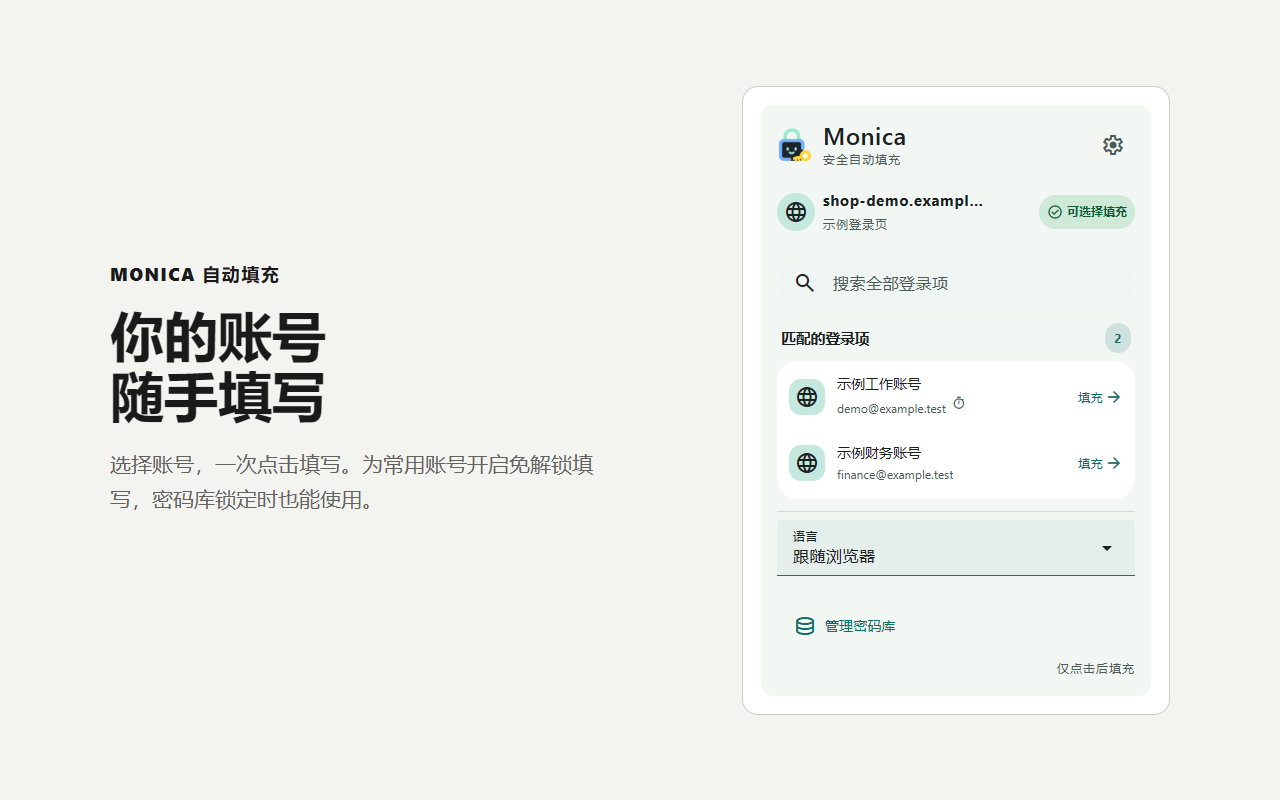
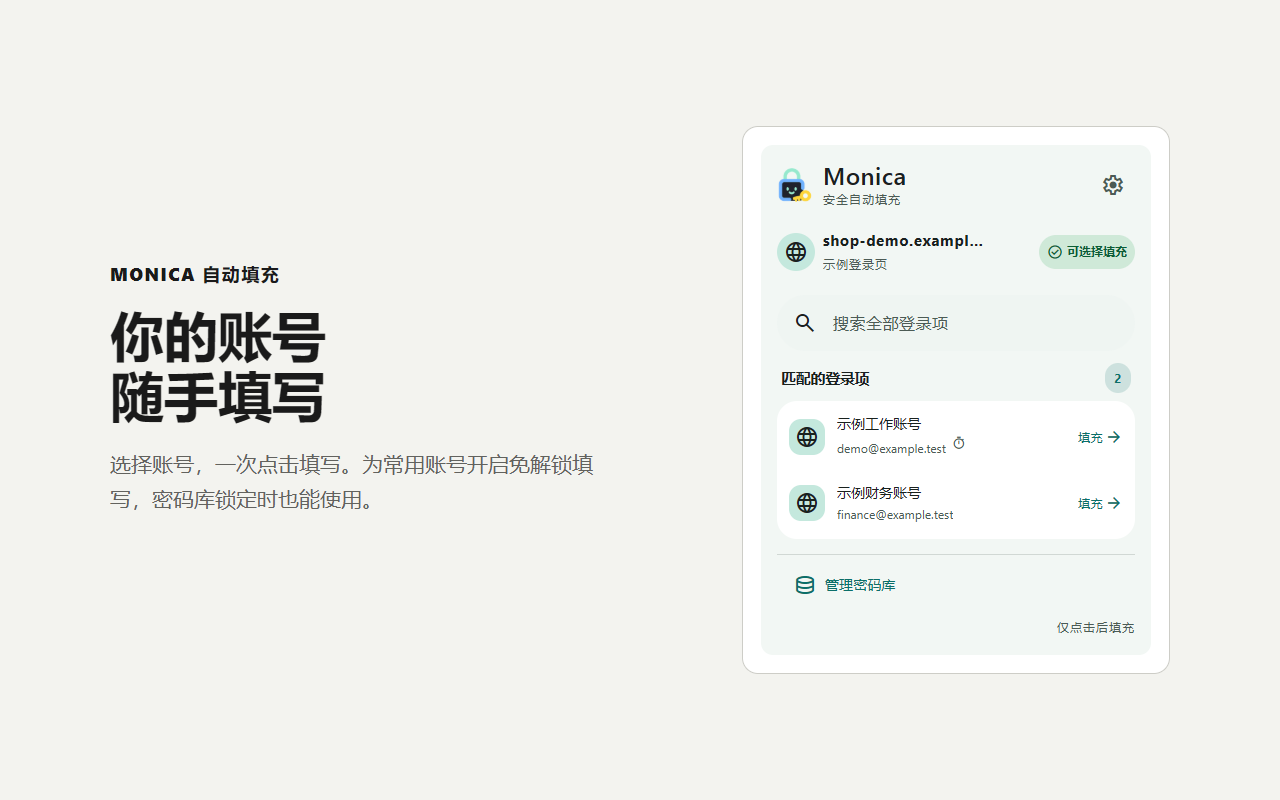
fix: keep interface language selection in settings

diff --git a/tests/e2e/multilingual.spec.ts b/tests/e2e/multilingual.spec.ts
@@ -29,7 +29,7 @@ async function usable(root: Locator) {
   expect(issues).toEqual([]);
 }
 
-test("language names stay readable on narrow authentication screens", async ({}, testInfo) => {
+test("language names stay readable in settings on narrow screens", async ({}, testInfo) => {
   const context = await chromium.launchPersistentContext(testInfo.outputPath("language-picker-profile"), {
     channel: "chromium", headless: true, locale: "zh-CN", reducedMotion: "reduce",
     args: [`--disable-extensions-except=${extension}`, `--load-extension=${extension}`]
@@ -39,7 +39,12 @@ test("language names stay readable on narrow authentication screens", async ({},
     const manager = await context.newPage();
     await context.setOffline(true);
     await manager.goto(`chrome-extension://${new URL(worker.url()).host}/index.html`);
-    const picker = manager.locator(".auth-preferences .language-picker").getByRole("combobox");
+    await expect(manager.getByRole("heading", { name: "创建加密密码库", exact: true })).toBeVisible();
+    await expect(manager.locator(".language-picker")).toHaveCount(0);
+    expect(await manager.evaluate(password => chrome.runtime.sendMessage({ type: "VAULT_SETUP", masterPassword: password }), password)).toMatchObject({ ok: true });
+    await manager.reload();
+    await manager.getByRole("navigation").getByRole("button", { name: "设置与备份", exact: true }).click();
+    const picker = manager.locator(".settings-page .language-picker").getByRole("combobox");
     for (const [width, height, scale] of [[390, 640, 100], [320, 480, 200]]) {
       await manager.setViewportSize({ width, height });
       await manager.evaluate((scale) => { document.documentElement.style.fontSize = `${scale}%`; }, scale);
@@ -88,7 +93,7 @@ for (const language of extraLanguages) {
       await manager.goto(`chrome-extension://${id}/index.html`);
       await expect(manager.locator("html")).toHaveAttribute("lang", language.value);
       await expect(manager.getByRole("heading", { name: catalog["创建加密密码库"], exact: true })).toBeVisible();
-      await expect(manager.getByLabel(catalog["界面语言"])).toHaveJSProperty("value", "system");
+      await expect(manager.locator(".language-picker")).toHaveCount(0);
       await manager.getByLabel(catalog["主密码"], { exact: true }).fill(password);
       await manager.getByLabel(catalog["确认主密码"], { exact: true }).fill(password);
       await manager.getByRole("button", { name: catalog["创建并解锁"], exact: true }).click();
@@ -137,6 +142,7 @@ for (const language of extraLanguages) {
       await site.bringToFront();
       await popup.goto(`chrome-extension://${id}/popup.html`);
       await expect(popup.locator("html")).toHaveAttribute("lang", language.value);
+      await expect(popup.locator(".language-picker")).toHaveCount(0);
       await popup.evaluate(() => { document.documentElement.style.fontSize = "200%"; });
       const marked = popup.locator(".locked-autofill-section").getByRole("button", { name: /保留原始标题/ });
       await expect(marked).toBeVisible();
@@ -150,10 +156,20 @@ for (const language of extraLanguages) {
       expect([...requestedCatalogs].every((url) => url.startsWith("chrome-extension://") && url.endsWith(`/locales/ui-${language.value}.json`))).toBe(true);
       expect(requestedCatalogs.size).toBeGreaterThan(0);
 
-      await chooseOption(popup.getByLabel(catalog["界面语言"]), "en");
+      await manager.bringToFront();
+      // Reopen the manager using the session unlocked by the independent Popup.
+      await manager.reload();
+      await manager.evaluate(() => { document.documentElement.style.fontSize = "200%"; });
+      await expect(manager.locator(".page-heading h1")).toBeVisible();
+      await manager.getByRole("button", { name: catalog["打开导航"], exact: true }).click();
+      await manager.getByRole("navigation").getByRole("button", { name: catalog["设置与备份"], exact: true }).click();
+      await expect(manager.locator(".settings-page").getByLabel(catalog["界面语言"])).toHaveJSProperty("value", "system");
+      await chooseOption(manager.locator(".settings-page").getByLabel(catalog["界面语言"]), "en");
       await expect(manager.locator("html")).toHaveAttribute("lang", "en");
-      await chooseOption(popup.getByLabel("Interface language"), "system");
+      await expect(popup.locator("html")).toHaveAttribute("lang", "en");
+      await chooseOption(manager.locator(".settings-page").getByLabel("Interface language"), "system");
       await expect(manager.locator("html")).toHaveAttribute("lang", language.value);
+      await expect(popup.locator("html")).toHaveAttribute("lang", language.value);
       const items = await manager.evaluate(() => chrome.runtime.sendMessage({ type: "VAULT_LIST_ITEMS" }));
       expect(items).toMatchObject({ ok: true, data: expect.arrayContaining([expect.objectContaining({ id: fixture.id, title: fixture.title, notes: fixture.notes, password: fixture.password }), expect.objectContaining({ title: "多语言编辑 / " + language.value, notes: "保留原文 <>& {0}" })]) });
       await manager.reload();

diff --git a/tests/e2e/localization.spec.ts b/tests/e2e/localization.spec.ts
@@ -15,6 +15,7 @@ test("browser language initializes the UI, system appearance follows changes, an
     const manager = await context.newPage();
     await manager.goto(`chrome-extension://${extensionId}/index.html`);
     await expect(manager.getByRole("heading", { name: "Create encrypted vault" })).toBeVisible();
+    await expect(manager.locator(".language-picker")).toHaveCount(0);
     await expect(manager.locator("html")).toHaveAttribute("lang", "en");
     await expect(manager.locator("html")).toHaveAttribute("data-palette", "monica");
     await expect(manager.locator("html")).toHaveAttribute("data-theme", "light");
@@ -24,6 +25,7 @@ test("browser language initializes the UI, system appearance follows changes, an
     await manager.getByLabel("Confirm master password", { exact: true }).fill("localized vault master password");
     await manager.getByRole("button", { name: "Create and unlock", exact: true }).click();
     await expect(manager.getByRole("heading", { name: "All items", exact: true })).toBeVisible();
+    await expect(manager.locator(".language-picker")).toHaveCount(0);
     const now = new Date().toISOString();
     expect(await manager.evaluate((item) => chrome.runtime.sendMessage({ type: "VAULT_UPSERT_ITEM", item }), {
       id: "localized-note", kind: "secure-note", title: "我的中文笔记", content: "不要翻译我的数据 <>&", notes: "原始备注",
@@ -36,13 +38,16 @@ test("browser language initializes the UI, system appearance follows changes, an
     const popup = await context.newPage();
     await popup.goto(`chrome-extension://${extensionId}/popup.html`);
     await expect(popup.locator("html")).toHaveAttribute("lang", "en");
+    await expect(popup.locator(".language-picker")).toHaveCount(0);
     await manager.getByRole("navigation").getByRole("button", { name: "Settings and backups", exact: true }).click();
     await expect(manager.locator(".sidebar").getByRole("combobox")).toHaveCount(0);
     await chooseOption(manager.locator(".settings-page").getByLabel("Interface language", { exact: true }), "zh-CN");
     await expect(popup.locator("html")).toHaveAttribute("lang", "zh-CN");
-    await expect(popup.getByLabel("界面语言", { exact: true })).toHaveJSProperty("value", "zh-CN");
-    await chooseOption(popup.getByLabel("界面语言", { exact: true }), "en");
+    await expect(manager.locator(".settings-page").getByLabel("界面语言", { exact: true })).toHaveJSProperty("value", "zh-CN");
+    await expect(popup.getByRole("button", { name: "管理密码库", exact: true })).toBeVisible();
+    await chooseOption(manager.locator(".settings-page").getByLabel("界面语言", { exact: true }), "en");
     await expect(manager.locator("html")).toHaveAttribute("lang", "en");
+    await expect(popup.locator("html")).toHaveAttribute("lang", "en");
     await expect(manager.locator(".settings-page").getByLabel("Interface language", { exact: true })).toHaveJSProperty("value", "en");
     await manager.getByRole("navigation").getByRole("button", { name: /^Secure Note/ }).click();
     await expect(manager.getByText("我的中文笔记", { exact: true })).toBeVisible();
@@ -51,6 +56,12 @@ test("browser language initializes the UI, system appearance follows changes, an
     await manager.reload();
     await manager.getByRole("navigation").getByRole("button", { name: "Settings and backups", exact: true }).click();
     await expect(manager.locator(".settings-page").getByLabel("Interface language", { exact: true })).toHaveJSProperty("value", "en");
+    expect(await manager.evaluate(() => chrome.runtime.sendMessage({ type: "VAULT_LOCK" }))).toMatchObject({ ok: true });
+    await expect(manager.getByRole("heading", { name: "Unlock Monica", exact: true })).toBeVisible();
+    await expect(manager.locator("html")).toHaveAttribute("lang", "en");
+    await expect(manager.locator(".language-picker")).toHaveCount(0);
+    await expect(popup.locator(".language-picker")).toHaveCount(0);
+    await manager.screenshot({ path: testInfo.outputPath("unlock-settings-language.png"), animations: "disabled" });
   } finally { await context.close(); }
 });
 

diff --git a/src/popup/PopupApp.vue b/src/popup/PopupApp.vue
@@ -6,7 +6,6 @@ import "@m3e/web/theme";
 import "@m3e/web/button";
 import "@m3e/web/icon";
 import "@m3e/web/icon-button";
-import LanguagePicker from "../components/LanguagePicker.vue";
 import ListPagination from "../components/ListPagination.vue";
 import PopupLoginRow from "./PopupLoginRow.vue";
 import WebsiteIcon from "../components/WebsiteIcon.vue";
@@ -372,7 +371,7 @@ function isSensitivePageAllowed(raw: string): boolean {
       </template>
 
       <p class="popup-status" aria-live="polite">{{ status }}</p>
-      <footer class="popup-footer"><LanguagePicker /><m3e-button variant="text" type="button" @click="openManager"><m3e-icon slot="icon" name="database"></m3e-icon>{{ tr('管理密码库') }}</m3e-button><span>{{ tr('仅点击后填充') }}</span></footer>
+      <footer class="popup-footer"><m3e-button variant="text" type="button" @click="openManager"><m3e-icon slot="icon" name="database"></m3e-icon>{{ tr('管理密码库') }}</m3e-button><span>{{ tr('仅点击后填充') }}</span></footer>
     </main>
   </m3e-theme>
 </template>

diff --git a/src/material-manager.css b/src/material-manager.css
@@ -68,7 +68,6 @@ img.brand-logo { display: block; flex: 0 0 44px; width: 44px; height: 44px; obje
 .locked-autofill-badge { display: inline-flex; align-items: center; gap: 4px; width: fit-content; max-width: 100%; padding: 4px 8px; background: var(--app-surface-high); border-radius: 8px; font-size: .6875rem; line-height: 1.5; white-space: normal; }
 #root .locked-autofill-badge m3e-icon { --m3e-icon-size: 16px; --app-icon-medium: 16px; }
 .language-picker { min-width: 0; }
-.auth-preferences { display: flex; justify-content: flex-end; padding: 16px; }
 
 @container manager-content (max-width: 48rem) { .create-type-label { display: none; } }
 @container manager-content (max-width: 24rem) {

diff --git a/src/App.vue b/src/App.vue
@@ -2314,7 +2314,6 @@ function errorCode(error: unknown): string | undefined {
 
 <template>
   <m3e-theme :color="themeColor" :scheme="activeScheme" variant="monochrome" motion="standard" strong-focus>
-    <div v-if="lifecycle !== 'unlocked'" class="auth-preferences"><LanguagePicker /></div>
     <div v-if="loading" class="loading">
       <img class="brand-logo" src="/icons/logo-256.png" width="48" height="48" alt="" /><h1>Monica</h1><p>{{ tr('正在检查加密密码库…') }}</p>
     </div>

diff --git a/src/responsive.css b/src/responsive.css
@@ -7,9 +7,8 @@
   --app-page-gutter: clamp(16px, 2.4vw, 40px);
 }
 
-:is(#root, #popup-root) .language-picker { max-width: 100%; }
-:is(#root, #popup-root) .language-error { overflow-wrap: anywhere; }
-#root .auth-preferences .language-picker { width: min(100%, 22rem); }
+#root .language-picker { max-width: 100%; }
+#root .language-error { overflow-wrap: anywhere; }
 
 #root .settings-language-card .language-picker {
   width: min(100%, 26rem);

diff --git a/docs/PRIVACY.md b/docs/PRIVACY.md
@@ -1,6 +1,6 @@
 # Monica 浏览器插件隐私政策
 
-生效日期：2026-09-10
+生效日期：2026-09-15
 
 Monica 浏览器插件是一款独立运行的密码、身份、支付信息和 Passkey 管理工具。插件不依赖 Monica Server WebUI，也不由 Monica-Pass 运营同步服务器。除用户主动配置的 WebDAV 或 Bitwarden 服务外，插件不会把密码库发送给 Monica-Pass 或其他由本项目控制的服务器。
 
@@ -35,7 +35,13 @@ Monica 浏览器插件是一款独立运行的密码、身份、支付信息和 
 
 ## 用户授权的网络传输
 
-插件不进行广告、分析、遥测或崩溃报告网络传输。以下传输只在用户配置并操作对应 Provider 后发生：
+插件不进行广告、分析、遥测或崩溃报告网络传输。密码源传输只面向用户配置的 WebDAV／Bitwarden 服务；自动同步默认开启，可在设置中关闭，锁定密码库后停止。网站图标请求的范围单独说明如下。
+
+### 网站图标
+
+- 优先使用浏览器本地缓存。缓存未命中时，可匿名请求已保存登录网址所属网站的 `/favicon.ico`，不使用第三方图标服务。
+- 直接请求仅限默认端口的公开 HTTPS 来源，不携带网址中的用户名、密码、路径、查询参数或片段，不携带 Cookie／Referer，也不跟随重定向。HTTP、IP 地址与内网名称仅使用浏览器缓存。
+- 网站可以看到图标请求和客户端 IP。图标仅缓存在页面内存中；加载失败显示默认图标，不影响密码管理。
 
 ### WebDAV
 
@@ -49,6 +55,7 @@ Monica 浏览器插件是一款独立运行的密码、身份、支付信息和 
 - 向用户选择的 Bitwarden US、EU 或自托管服务发送邮箱、密码派生的登录凭据、两步验证码、Token 刷新请求以及加密 Cipher 的读取/创建/更新/删除请求。
 - Bitwarden 主密码只在本次登录中用于本地密钥派生，不持久化；访问/刷新 Token、Vault Key 和解密后的缓存随后只存入 Monica 的本地加密信封。
 - 官方/远程 Bitwarden 地址要求 HTTPS；仅 localhost/127.0.0.1 开发地址允许 HTTP。
+- 自动同步会连接该服务的 SignalR 通知端点，收到变化通知后从认证 API 读取对应 Cipher；重连与定期校对可能读取完整同步上下文。
 
 Provider 运营方会按其自身隐私政策处理收到的数据。本项目不会出售、出租或为广告目的共享这些数据。
 

diff --git a/docs/LOCALIZATION.md b/docs/LOCALIZATION.md
@@ -13,7 +13,7 @@ Monica for Extension 从 0.1.26 起支持与 Android 版一致的 8 种语言：
 | 俄语 | `ru` | Русский |
 | 越南语 | `vi` | Tiếng Việt |
 
-管理页的语言选择位于“设置与备份”顶部的“界面语言”，侧栏专用于导航和锁定。登录页和 Popup 底部也可切换语言。默认选择“跟随浏览器”，按照浏览器语言偏好顺序选择首个支持的语种；例如 `de-AT` 使用德语、`es-MX` 使用西班牙语，没有匹配语种时使用英文。中文区域目前统一使用简体中文。手动选择后固定该语言，再选择“跟随浏览器”可恢复自动选择。默认外观仍跟随系统，也可在“设置与备份 → 外观”中固定为明亮或深色。
+语言切换仅位于“设置与备份”顶部的“界面语言”，侧栏专用于导航和锁定。创建页、解锁页和 Popup 沿用该偏好，不重复提供切换入口。默认选择“跟随浏览器”，按照浏览器语言偏好顺序选择首个支持的语种；例如 `de-AT` 使用德语、`es-MX` 使用西班牙语，没有匹配语种时使用英文。中文区域目前统一使用简体中文。手动选择后固定该语言，再选择“跟随浏览器”可恢复自动选择；已打开的管理页、Popup 和网页提示同步更新。默认外观仍跟随系统，也可在“设置与备份 → 外观”中固定为明亮或深色。
 
 语言选择保存于 `chrome.storage.local` 的 `monica.locale`，并同步到管理页、Popup 和网页提示；`system` 表示跟随浏览器。旧版中英文偏好保持有效，扩展页面的同名 localStorage 偏好在首次启动时迁移。内容脚本不会读取网站 localStorage 中的语言偏好。较慢的旧加载请求不能覆盖新选择；语言包加载失败时保留可用界面并允许重试。
 

diff --git a/README.md b/README.md
@@ -45,7 +45,7 @@ Monica 的 Chrome/Edge Manifest V3 浏览器插件。管理界面复用并独立
 
 当前版本的登录填充、密码保存/更新、身份与支付填充、WebDAV、Bitwarden 和 Passkey 主流程均有真实 Chromium MV3 E2E 覆盖。
 
-支持 **简体中文、English、日本語、한국어、Deutsch、Español、Русский、Tiếng Việt** 共 8 种语言，与 Android 版的语种保持一致。管理页在“设置与备份 → 界面语言”中切换，也可选择“跟随浏览器”；登录页和 Popup 底部同样提供语言选择。语言包离线提供，Manifest 名称、说明和工具栏文案同步覆盖。字段识别与界面语言独立；切换语言不会修改账号名称、密码或 Android 数据。详见 [本地化支持范围](docs/LOCALIZATION.md)。
+支持 **简体中文、English、日本語、한국어、Deutsch、Español、Русский、Tiếng Việt** 共 8 种语言，与 Android 版的语种保持一致。语言切换仅位于“设置与备份 → 界面语言”，也可选择“跟随浏览器”；创建页、解锁页、Popup 与网页提示自动沿用同一偏好。语言包离线提供，Manifest 名称、说明和工具栏文案同步覆盖。字段识别与界面语言独立；切换语言不会修改账号名称、密码或 Android 数据。详见 [本地化支持范围](docs/LOCALIZATION.md)。
 
 0.1.27 在相同 Chromium、2,000 条合成登录项和 100 条验证码数据下，登录列表的保留 V8 堆由 59.74 MiB 降至 8.08 MiB，Popup 由 14.07 MiB 降至 5.79 MiB。它们是请求垃圾回收后测得的页面 JavaScript 堆，不代表浏览器总内存；主密码派生仍使用 64 MiB Argon2id。测量范围与复现方式见 [性能说明](docs/PERFORMANCE.md)。
 

diff --git a/docs/RELEASE-0.1.37.md b/docs/RELEASE-0.1.37.md
@@ -8,7 +8,7 @@
 - 管理页直接进入全部项目；筛选按类型、密码源、分类和收藏组合。拆分新建按钮可创建当前类型，也可展开选择其他类型。主要凭据与绑定验证码优先展示，补充字段按需展开。
 - 工具栏账号列表采用横向布局：网站图标、标题与用户名、独立复制操作。匹配账号、全部账号与免解锁账号保持一致；长文字不挤压图标，不可填充页面仍可复制。
 - 登录列表、详情与工具栏支持网站图标，优先使用浏览器缓存，必要时匿名请求网站自己的 favicon，失败后显示默认图标。不使用第三方图标服务。
-- 保留 Monica 官方应用图标、八种离线语言、明暗主题、大字体及窄屏布局。界面语言位于设置页。
+- 保留 Monica 官方应用图标、八种离线语言、明暗主题、大字体及窄屏布局。语言切换仅位于设置页，创建页、解锁页与工具栏弹窗自动沿用同一偏好。
 - 新增 API 密钥类型，支持本地库及 Android 原生 MDBX2 对象；SSO 作为登录方式收进密码记录。
 
 ## 自动同步与 Passkey
